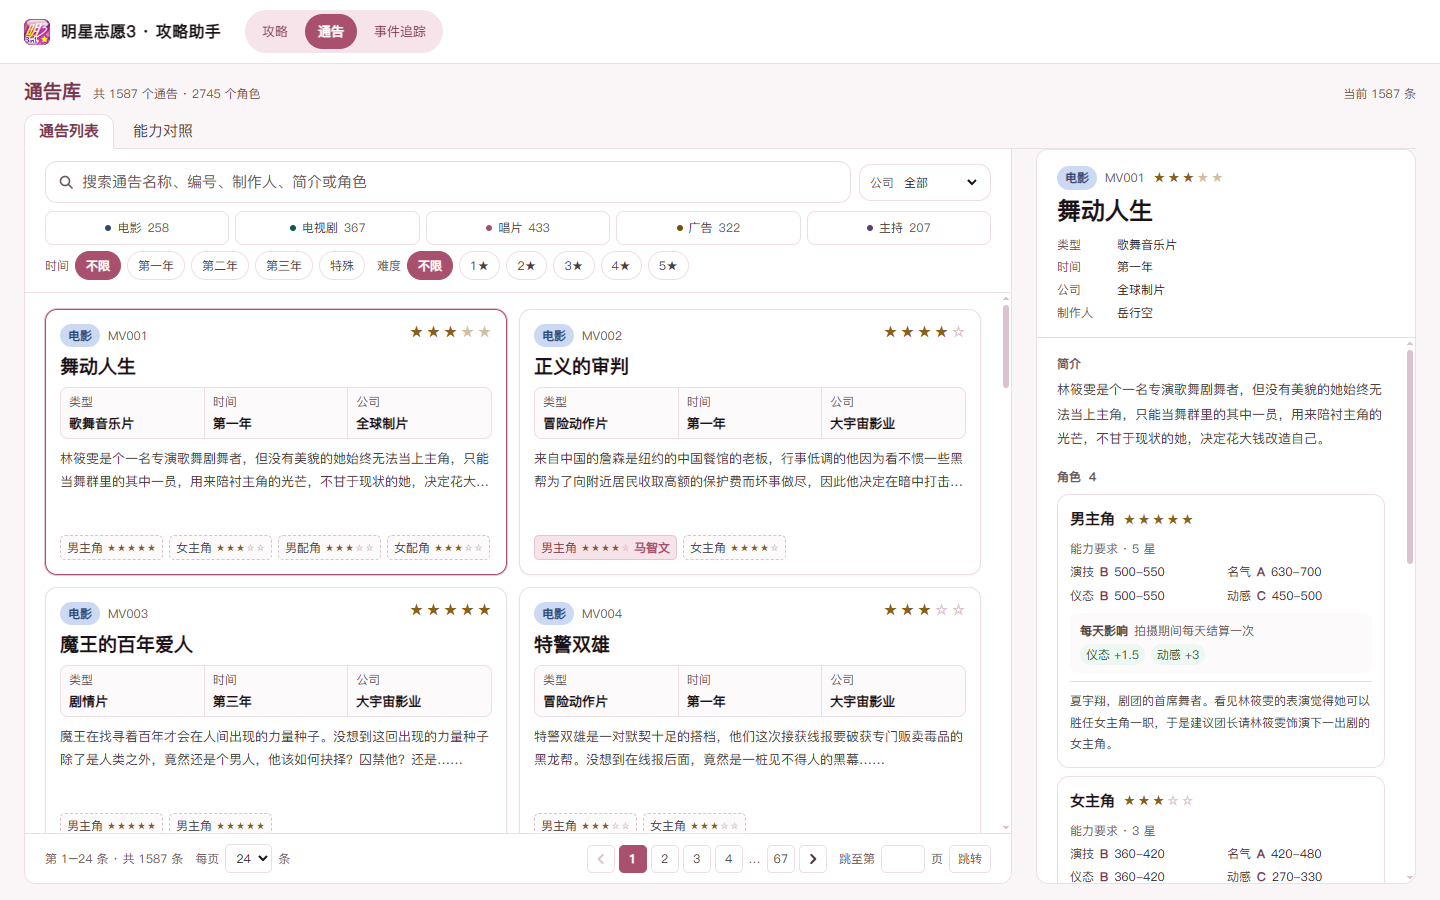
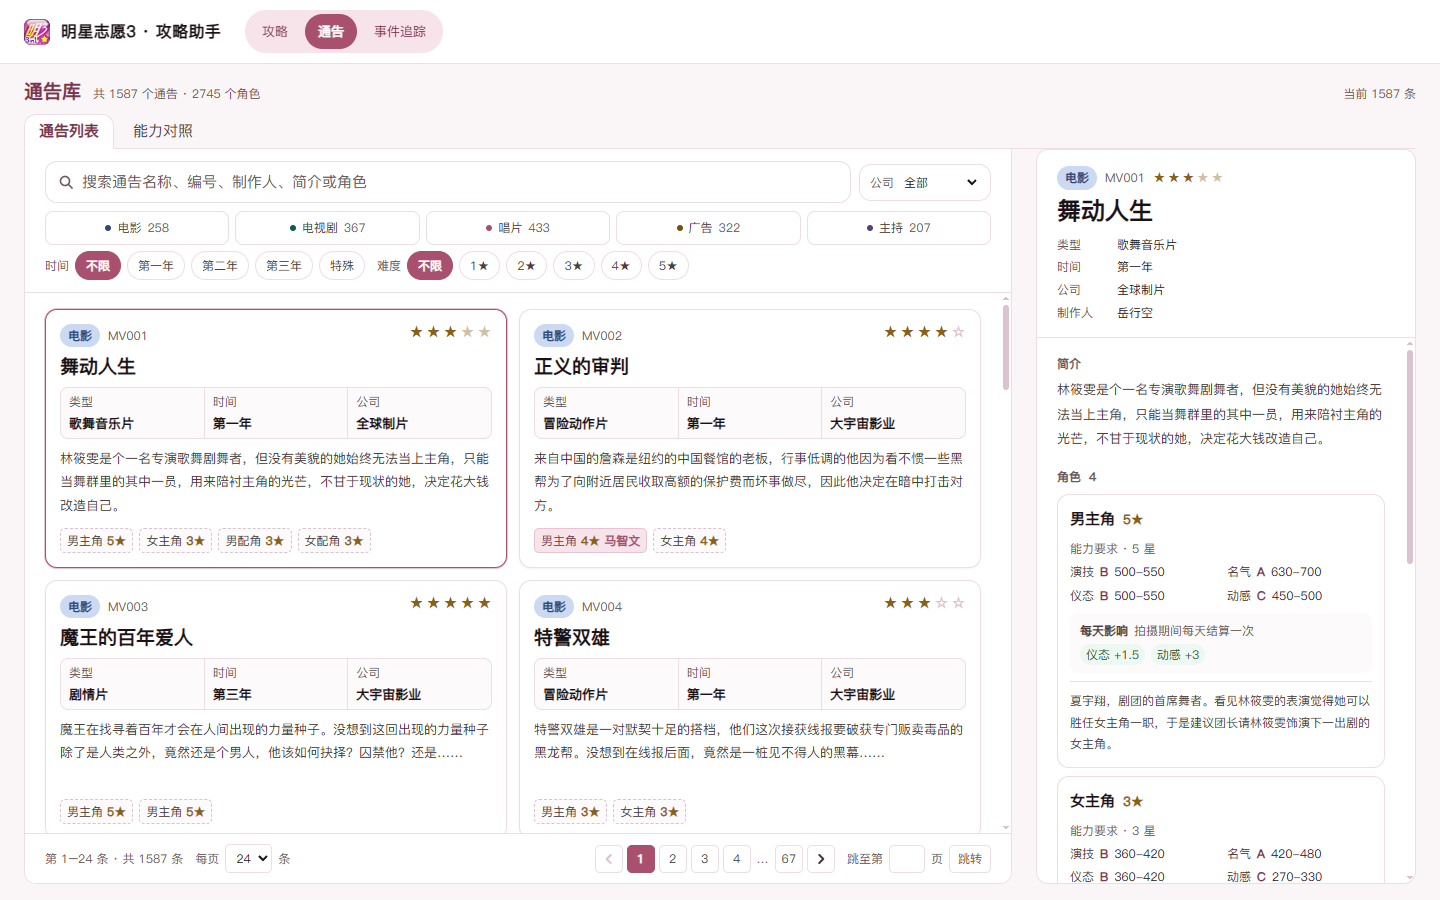
fix: restyle the threshold chip and the jump input

Changed region(s): [[0.0312, 0.56, 0.6875, 0.9644], [0.7812, 0.8711, 0.8125, 0.9022], [0.7812, 0.56, 0.8125, 0.5911]]

diff --git a/src/components/notices/NoticeDetail.tsx b/src/components/notices/NoticeDetail.tsx
@@ -55,7 +55,7 @@ function RoleBlock({
     <li data-notice-role className="rounded-ui-md border border-line bg-surface p-3">
       <div className="flex flex-wrap items-center gap-x-2 gap-y-1">
         <span className="text-ui-sm font-semibold text-ink">{role.name}</span>
-        <StarBadge value={stars} size="md" />
+        <span className="text-ui-xs font-semibold tabular-nums text-gold">{stars}★</span>
         {role.defaultArtist && (
           <span className="rounded-full bg-brand-soft px-2 py-0.5 text-ui-2xs text-brand-strong">
             默认 {role.defaultArtist}
@@ -87,7 +87,7 @@ function RoleBlock({
             <span
               key={item.label}
               data-notice-chip="threshold"
-              className="rounded-ui-xs border border-line-strong bg-surface px-1.5 py-0.5 text-ui-2xs tabular-nums text-ink"
+              className="rounded-full bg-line/70 px-2 py-0.5 text-ui-2xs tabular-nums text-ink-muted"
               title="接这个角色需要的最低属性"
             >
               {item.label} ≥ {item.value}

diff --git a/src/components/notices/NoticePager.tsx b/src/components/notices/NoticePager.tsx
@@ -172,7 +172,7 @@ export default function NoticePager({
           aria-label={`跳转到第几页，共 ${pageCount} 页`}
           placeholder=" " 
           title={`共 ${pageCount} 页`}
-          className="h-7 w-11 rounded-ui-xs border border-line bg-surface text-center text-ui-2xs tabular-nums text-ink outline-none transition-colors placeholder:text-ink-faint focus:border-brand-line"
+          className="h-7 w-9 rounded-ui-xs border border-line bg-surface text-center text-ui-2xs tabular-nums text-ink outline-none transition-colors placeholder:text-ink-faint focus:border-brand-line"
         />
         页
         <button

diff --git a/docs/content-pipeline.md b/docs/content-pipeline.md
@@ -23,8 +23,8 @@
 - **「能力影响」和「特殊要求影响」都是按天结算**：拍摄期间每天各结算一次，拍多少天就结算多少次，所以页面统一用「每天影响」表述，不做总量换算（表里没有天数）。角色表里的 `gains` 优先，缺失时回落到 `grades` 按类型给的数值。**数值口径**：`notices.xls` 的能力影响是十位数量级（36 / 48），游戏内每天实际结算的是它的 1/10（3.6 / 4.8），与 `requirements.xlsx` 的「能力影响（每天）」列逐格相符（203 格全是精确 ÷10）。所以 `extract_notices.py` 用 `daily()` 统一乘以 `GAIN_SCALE = 0.1` 再落盘，JSON 里存的就是游戏内数值；`叛逆 / 性感 / 亲和` 三列是接演门槛，不参与换算。改口径只需动这一个常量。
 - `说明` 表除难度对照外还有几段散文（独家代理限制、S/L 刷属性、数据来源），脚本按「整行只有一个非空单元格且够长」筛成 `notes[]`，在「能力对照」页末尾照录；`取消隐藏即可重新显示` 那句是对着 Excel 说的，直接跳过。
 - **能力要求不在数据里展开**：`grades`（类型 × 对象 → A/B/C/D）与 `scale`（星级 × 字母 → 区间）分开存，前端用 `requirementsFor()` 现算，换算法不用重生成 JSON。区间的正确性由 `scripts/test_notices.py` 兜底——它把 1100 多个「类型/对象/能力/星级」组合与原 xlsx 逐一比对，必须完全一致。
-- **列表按页渲染**：默认每页 24 条（可选 12 / 24 / 48 / 96），分页器在 `NoticePager.tsx`，只挂当前页的卡片。分页器只留上一页/下一页两个箭头，首页与末页靠页码序列本身（`pageSlots` 始终把 1 和末页排在两端），远距离跳转用「跳至 N 页」。列表列数用 `repeat(auto-fill,minmax(min(340px,100%),1fr))` 跟着容器宽度走，不绑视口断点——1120 起右栏出现会把列表压窄，自动退回一列；900 这种「没有右栏但也不宽」的尺寸反倒排得下两列。卡片简介固定两行摘要（`line-clamp-2`，悬停看全文，完整正文在右侧详情），同页卡片的最小高度由 `NoticesApp` 量完这页最高的一张再统一设上——量的是内层 `[data-notice-card-inner]`，按钮本身在网格里已被拉伸，量它会拿到上一轮的结果。同一个征求对象出现两次（特殊要求不同）就并排两个 chip，不折成 `×2`。
-- **卡片的信息位固定**：右上角五颗星（`StarBadge`，点亮几颗就是几星，区间难度把「一定满足」的星打成实心金、可能区间打成半透明）、名称、类型/时间/公司三格元信息、角色行。剧种细分（连续剧 / 单元剧 / 短片）与广告篇名收成类型格标签行里的一枚小徽章，不再占第三行——否则这一格会比旁边两格高一行，三格对不齐。角色 chip 里有默认艺人的直接把艺人名写出来（粉底实线），没人接的只有角色与星数（灰底虚线），不再写「待定」字样，也不再有 `待定 N` 汇总行。
+- **列表按页渲染**：默认每页 24 条（可选 12 / 24 / 48 / 96），分页器在 `NoticePager.tsx`，只挂当前页的卡片。分页器只留上一页/下一页两个箭头，首页与末页靠页码序列本身（`pageSlots` 始终把 1 和末页排在两端），远距离跳转用「跳至 N 页」。列表列数用 `repeat(auto-fill,minmax(min(340px,100%),1fr))` 跟着容器宽度走，不绑视口断点——1120 起右栏出现会把列表压窄，自动退回一列；900 这种「没有右栏但也不宽」的尺寸反倒排得下两列。卡片简介整段展开、不截断，同页卡片的最小高度由 `NoticesApp` 量完这页最高的一张再统一设上——量的是内层 `[data-notice-card-inner]`，量之前先把上一轮写上去的 `minHeight` 同步摘掉再还原，否则量到的是撑过之后的高度、翻到简介更短的页也缩不回去。同一个征求对象出现两次（特殊要求不同）就并排两个 chip，不折成 `×2`。
+- **卡片的信息位固定**：右上角五颗星（`StarBadge`，点亮几颗就是几星，区间难度把「一定满足」的星打成实心金、可能区间打成半透明）、名称、类型/时间/公司三格元信息、角色行。剧种细分（连续剧 / 单元剧 / 短片）与广告篇名收成类型格标签行里的一枚小徽章，不再占第三行——否则这一格会比旁边两格高一行，三格对不齐。角色 chip 里有默认艺人的直接把艺人名写出来（粉底实线），没人接的只有角色与星数（灰底虚线），不再写「待定」字样，也不再有 `待定 N` 汇总行；星数在 chip 里写作 `4★`（五颗星留给卡片右上角与详情标题）。
 - **能力对照是便签墙**：`ReferenceView.tsx` 把五块内容排成 `grid`，窄表（难度换算、特殊要求影响）并排占一行，宽表（类型能力要求、艺人成长率）`col-span-2`；每块顶部一条 3px 色带 + 标题同色圆点当作索引，不再是「一列铺到底、每块只占左半边」。右侧 176px 的「本页小结」是滚动定位器：点条目把对应便签滚到容器顶部（`scrollTo` + 减去 8px 留白），滚动时按「顶部已越过容器上沿且最贴近上沿的那块」反高亮——并排两块会同时越线，所以不能简单取最后一块。小于 1120 收藏起 rail，单列便签照常。
 - **七种特殊要求各有一个色相**：`specialStyle.ts` 把搞笑（琥珀）、反串（墨绿）、暴力（砖红，`--color-alert*`）、反派（暗玫）、裸露（紫）、丑化（暖灰）、吻戏（品牌粉）分开，每个标签带同色圆点和描边；没登记的标签回落到中性灰，不会因为新增标签而消失。`cdp_notices.mjs` 断言七行样式的 class 两两不同，防止以后被合并成同一个灰 chip。
 

diff --git a/README.md b/README.md
@@ -31,7 +31,7 @@
 把游戏内的通告表搬进网页：1587 个通告、2745 个角色，可筛选、可搜索，点开就是接这条通告需要什么。
 
 - **五类通告**：电影 / 电视剧 / 唱片 / 广告 / 主持，含名称、编号、类型、时间、公司、制作人与简介
-- **卡片信息**：名称、类型（含剧种细分与广告篇名，缩写成一枚小徽章挂在类型旁）、时间、公司、五星难度与角色行都放在固定位置，简介只留两行摘要（全文在右侧详情），一屏扫下来不用点开也知道缺谁
+- **卡片信息**：名称、类型（含剧种细分与广告篇名，缩写成一枚小徽章挂在类型旁）、时间、公司、五星难度与角色行都放在固定位置，简介整段展开、同页卡片按最高的一张对齐，一屏扫下来不用点开也知道缺谁
 - **筛选与搜索**：按分类、年份、公司、难度筛选，搜索名称、编号、制作人、简介或角色名
 - **分页浏览**：每页可选 12 / 24 / 48 / 96 条，可点页码、翻页或直接输入页码，只渲染当前这一页
 - **角色明细**：每个角色列出难度星级、能力要求区间与特殊要求（搞笑 / 反串 / 暴力 / 反派 / 裸露 / 丑化 / 吻戏，七种标签各有颜色），以及拍摄期间**每天**结算的属性增减——能力影响与特殊要求影响都按天算，拍多少天就结算多少次
